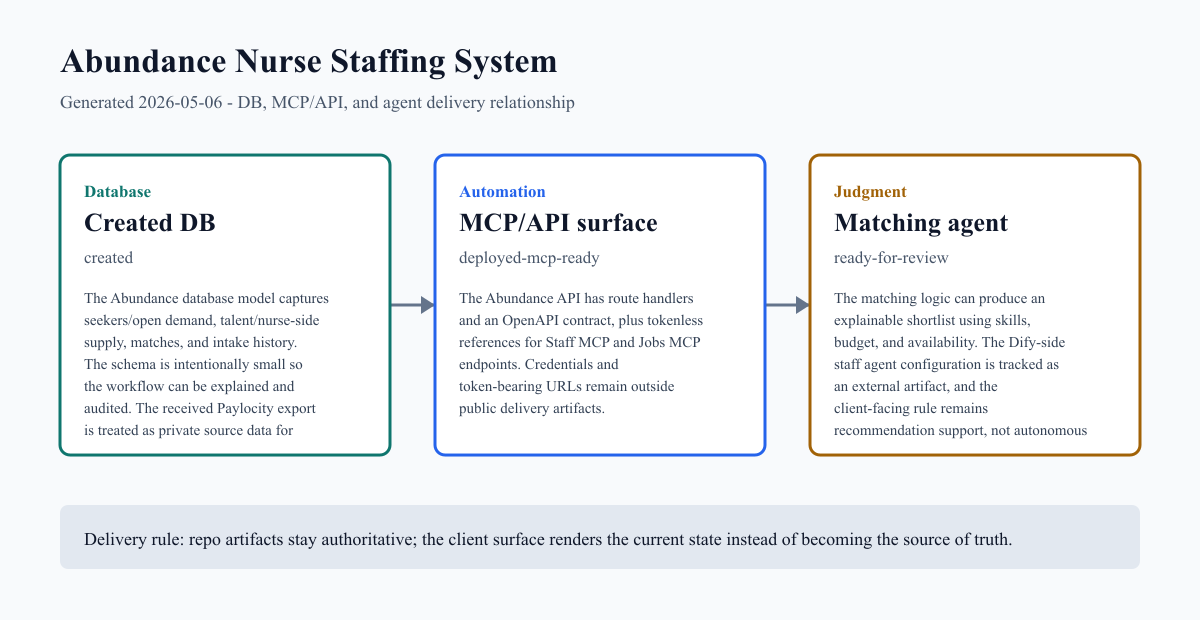
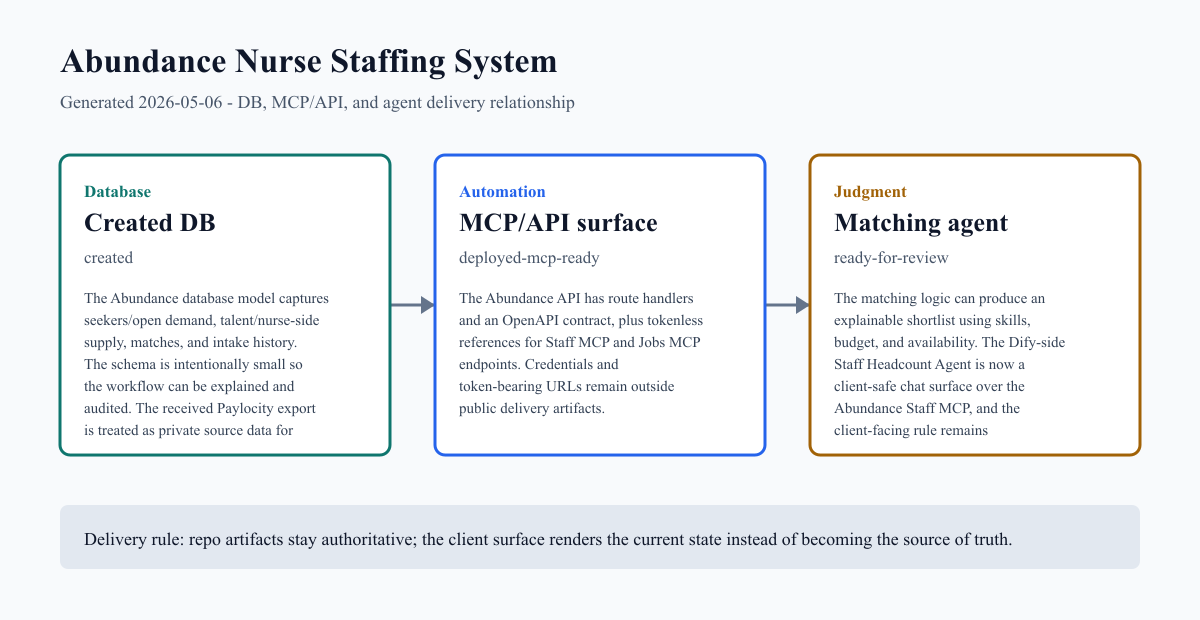
Add NPG Dify agent delivery embed

Changed region(s): [[0.6783, 0.5823, 0.8942, 0.7048]]

diff --git a/packages/agency/src/lib/delivery/abundance.ts b/packages/agency/src/lib/delivery/abundance.ts
@@ -20,13 +20,42 @@ export type DeliveryKnowledgeCard = {
 	followUpQuestions: string[];
 };
 
+export type DeliveryAgentEmbed = {
+	label: string;
+	chatUrl: string;
+	embedUrl: string;
+	meta: string;
+	summary: string;
+	valuePoints: string[];
+	guardrail: string;
+	evaluationNote: string;
+};
+
 export const abundanceDeliverySummary = {
 	client: 'The NP Group / NPG',
 	owner: 'CREATE SOMETHING',
 	phase: 'Build / delivery review',
 	headline: 'Abundance nurse staffing system.',
 	description:
-		'The NP Group now has a live concierge app, a repo-backed database, Staff and Jobs MCP endpoint references, walkthrough artifacts, and a clear agent boundary for recruiter-led review.'
+		'The NP Group now has a live concierge app, a repo-backed database, Staff and Jobs MCP endpoint references, a Staff Headcount Agent, walkthrough artifacts, and a clear agent boundary for recruiter-led review.'
+};
+
+export const abundanceStaffHeadcountAgent: DeliveryAgentEmbed = {
+	label: 'Abundance Staff Headcount Agent',
+	chatUrl: 'https://udify.app/chat/N0MmKYaAQAzgmZhy',
+	embedUrl: 'https://udify.app/chatbot/N0MmKYaAQAzgmZhy',
+	meta: 'Latest agent + MCP delivery',
+	summary:
+		'The Staff Headcount Agent is the newest reviewable surface for the Abundance staff/operator workstream. It uses the Abundance Staff MCP as its source of truth for Paylocity active-headcount summaries, staff profile lookup, and enrichment task tracking.',
+	valuePoints: [
+		'Lets NPG inspect active-headcount context through chat instead of reading raw CSV rows.',
+		'Connects the visible agent experience to the Staff MCP boundary rather than a loose prompt.',
+		'Keeps recruiter/operator judgment in the loop for enrichment, access, and staffing decisions.'
+	],
+	guardrail:
+		'The embedded chat is client-safe. The Dify API key, MCP credentials, employee-level exports, and token-bearing URLs stay in secret storage and are not published here.',
+	evaluationNote:
+		'Braintrust/eval evidence is useful as a value translator once attached to run artifacts: tool use, refusal behavior, latency, and MCP boundary checks can be summarized without exposing raw traces or secrets.'
 };
 
 export const abundanceArtifactLinks: DeliveryArtifact[] = [
@@ -46,6 +75,12 @@ export const abundanceArtifactLinks: DeliveryArtifact[] = [
 		label: 'Pilot overview',
 		href: 'https://share.descript.com/view/0wxPcYQzl8G',
 		meta: 'Concierge pilot walkthrough',
+		visibility: 'client-safe'
+	},
+	{
+		label: 'Staff Headcount Agent',
+		href: abundanceStaffHeadcountAgent.chatUrl,
+		meta: 'Dify chat over Staff MCP',
 		visibility: 'client-safe'
 	},
 	{
@@ -69,20 +104,20 @@ export const abundanceOperatingLayers: DeliveryLayer[] = [
 		title: 'Staff and Jobs MCP',
 		status: 'Deployed endpoints',
 		body:
-			'Staff and jobs MCP endpoints are tracked as tokenless delivery artifacts. Credentials stay in secret storage and are not published in the delivery surface.'
+			'Staff and jobs MCP endpoints are tracked as tokenless delivery artifacts. The Staff Headcount Agent now gives NPG a chat surface over the Staff MCP while credentials stay in secret storage.'
 	},
 	{
 		tier: 'Judgment',
 		title: 'Agent Boundary',
 		status: 'Ready for review',
 		body:
-			'The agent supports intake, shortlist, missing-information flags, and recruiter review. It does not autonomously make staffing decisions.'
+			'The agent supports headcount inspection, intake, shortlist, missing-information flags, and recruiter review. It does not autonomously make staffing decisions.'
 	}
 ];
 
 export const abundancePrivateArtifacts = [
 	'Paylocity active-headcount CSV received for private staff/operator context.',
-	'Dify Abundance staff-agent configuration is tracked as an external operational artifact.',
+	'Dify Abundance Staff Headcount Agent is published as a client-safe chat surface; API credentials remain private.',
 	'MCP credentials should be verified from Infisical before live agent smoke tests.',
 	'Any token shared outside secret storage should be rotated before production reliance.'
 ];
@@ -90,7 +125,7 @@ export const abundancePrivateArtifacts = [
 export const abundanceNextReview = [
 	'Confirm how Paylocity fields map into staff/operator records.',
 	'Verify Staff MCP and Jobs MCP credentials from Infisical.',
-	'Walk through the live app, generated delivery package, and MCP boundaries with NPG.',
+	'Walk through the live app, Staff Headcount Agent, generated delivery package, and MCP boundaries with NPG.',
 	'Decide which operator roster receives MCP/database access.'
 ];
 
@@ -98,7 +133,8 @@ export const abundanceSuggestedPrompts = [
 	'Explain what changed in plain English.',
 	'What decisions do you need from us?',
 	'What is safe to forward to our team?',
-	'How do the DB, MCP, and agent fit together?'
+	'How do the DB, MCP, and agent fit together?',
+	'What can we ask the Staff Headcount Agent?'
 ];
 
 export const abundanceKnowledgeCards: DeliveryKnowledgeCard[] = [
@@ -118,7 +154,7 @@ export const abundanceKnowledgeCards: DeliveryKnowledgeCard[] = [
 		label: 'Review artifacts',
 		keywords: ['link', 'links', 'artifact', 'artifacts', 'walkthrough', 'demo', 'live', 'url', 'review'],
 		answer:
-			'The client-safe review set is the Abundance Concierge live app, the progress walkthrough, the pilot overview, and the generated delivery package. These are safe to use for review because they exclude token-bearing MCP URLs, raw employee rows, private Notion details, and contact data.',
+			'The client-safe review set is the Abundance Concierge live app, the Staff Headcount Agent chat, the progress walkthrough, the pilot overview, and the generated delivery package. These are safe to use for review because they exclude token-bearing MCP URLs, raw employee rows, private Notion details, and contact data.',
 		followUpQuestions: [
 			'Who should be included in the review loop?',
 			'Should the generated delivery page remain public-link accessible, or should future delivery pages require login?'
@@ -149,12 +185,34 @@ export const abundanceKnowledgeCards: DeliveryKnowledgeCard[] = [
 	{
 		id: 'agent',
 		label: 'Agent boundary',
-		keywords: ['agent', 'dify', 'chat', 'recommend', 'recommendation', 'judgment', 'decision', 'autonomous'],
+		keywords: [
+			'agent',
+			'dify',
+			'chat',
+			'headcount',
+			'staff',
+			'recommend',
+			'recommendation',
+			'judgment',
+			'decision',
+			'autonomous'
+		],
 		answer:
-			'The agent should be treated as recommendation support. It can support intake, shortlist candidates, flag missing information, and prepare recruiter review, but it should not autonomously hire, place, reject, or make final staffing decisions. That human review boundary is part of the delivery value.',
+			'The Staff Headcount Agent should be treated as review and recommendation support over the Abundance Staff MCP. It can summarize active-headcount context, look up staff profiles, queue enrichment tasks, support intake, shortlist candidates, flag missing information, and prepare recruiter review, but it should not autonomously hire, place, reject, or make final staffing decisions. That human review boundary is part of the delivery value.',
 		followUpQuestions: [
 			'What actions can the agent draft but not send?',
 			'Which recruiter or operator approves matches before anything reaches a candidate or client?'
+		]
+	},
+	{
+		id: 'evaluation',
+		label: 'Evaluation evidence',
+		keywords: ['eval', 'evals', 'braintrust', 'test', 'tests', 'quality', 'proof', 'trace', 'latency'],
+		answer:
+			'Braintrust/eval evidence can help translate the value of the agent and MCP work into proof: which tools were used, whether private material was refused, whether MCP boundaries held, and whether latency was acceptable. The current delivery page should only claim completed evals once run artifacts or summaries are attached; otherwise it should describe evals as the next proof lane.',
+		followUpQuestions: [
+			'Which eval results are safe to share with NPG?',
+			'Should eval evidence be summarized as a client-facing scorecard or kept as an internal appendix?'
 		]
 	},
 	{

diff --git a/packages/agency/src/routes/delivery/abundance/+page.svelte b/packages/agency/src/routes/delivery/abundance/+page.svelte
@@ -3,6 +3,7 @@
   import {
     abundanceArtifactLinks,
     abundanceDeliverySummary,
+    abundanceStaffHeadcountAgent,
     abundanceNextReview,
     abundanceOperatingLayers,
     abundancePrivateArtifacts,
@@ -137,6 +138,39 @@
           <strong>{artifact.label}</strong>
         </a>
       {/each}
+    </div>
+  </div>
+</section>
+
+<section class="delivery-section">
+  <div class="shell-inner-pad">
+    <div class="agent-delivery product-surface">
+      <div class="agent-delivery__copy">
+        <span class="product-kicker">{abundanceStaffHeadcountAgent.meta}</span>
+        <h2>{abundanceStaffHeadcountAgent.label}</h2>
+        <p>{abundanceStaffHeadcountAgent.summary}</p>
+
+        <div class="agent-delivery__points">
+          {#each abundanceStaffHeadcountAgent.valuePoints as point}
+            <p>{point}</p>
+          {/each}
+        </div>
+
+        <p class="agent-delivery__guardrail">{abundanceStaffHeadcountAgent.guardrail}</p>
+        <p class="agent-delivery__guardrail">{abundanceStaffHeadcountAgent.evaluationNote}</p>
+
+        <a class="agent-delivery__link" href={abundanceStaffHeadcountAgent.chatUrl} target="_blank" rel="noreferrer">
+          Open full chat
+        </a>
+      </div>
+
+      <div class="agent-delivery__embed" aria-label="Embedded Abundance Staff Headcount Agent">
+        <iframe
+          src={abundanceStaffHeadcountAgent.embedUrl}
+          title={abundanceStaffHeadcountAgent.label}
+          allow="microphone"
+        ></iframe>
+      </div>
     </div>
   </div>
 </section>
@@ -411,6 +445,81 @@
     border-top: 4px solid rgba(94, 234, 212, 0.78);
   }
 
+  .agent-delivery {
+    display: grid;
+    grid-template-columns: minmax(0, 0.9fr) minmax(340px, 1.1fr);
+    gap: clamp(18px, 4vw, 34px);
+    align-items: stretch;
+    padding: clamp(20px, 4vw, 34px);
+    border-top: 4px solid rgba(167, 184, 255, 0.76);
+  }
+
+  .agent-delivery__copy {
+    display: grid;
+    gap: 14px;
+    align-content: start;
+  }
+
+  .agent-delivery__copy h2 {
+    margin: 8px 0 2px;
+    font-family: var(--font-display);
+    font-size: clamp(30px, 5vw, 58px);
+    line-height: 1;
+    letter-spacing: 0;
+  }
+
+  .agent-delivery__copy p {
+    margin: 0;
+    color: rgba(246, 247, 251, 0.72);
+    font-size: 1.03rem;
+    line-height: 1.55;
+  }
+
+  .agent-delivery__points {
+    display: grid;
+    gap: 10px;
+    margin: 4px 0;
+  }
+
+  .agent-delivery__points p,
+  .agent-delivery__guardrail {
+    border-top: 1px solid rgba(255, 255, 255, 0.12);
+    padding-top: 10px;
+  }
+
+  .agent-delivery__guardrail {
+    color: rgba(246, 247, 251, 0.6) !important;
+  }
+
+  .agent-delivery__link {
+    width: fit-content;
+    border: 1px solid rgba(94, 234, 212, 0.36);
+    background: rgba(94, 234, 212, 0.12);
+    color: #ffffff;
+    padding: 11px 14px;
+    text-decoration: none;
+  }
+
+  .agent-delivery__link:hover {
+    border-color: rgba(94, 234, 212, 0.72);
+  }
+
+  .agent-delivery__embed {
+    min-height: 700px;
+    overflow: hidden;
+    border: 1px solid rgba(255, 255, 255, 0.14);
+    background: rgba(0, 0, 0, 0.32);
+  }
+
+  .agent-delivery__embed iframe {
+    display: block;
+    width: 100%;
+    height: 100%;
+    min-height: 700px;
+    border: 0;
+    background: #0b0b10;
+  }
+
   .delivery-agent__intro {
     max-width: 820px;
   }
@@ -599,6 +708,7 @@
 
   @media (max-width: 980px) {
     .delivery-hero__inner,
+    .agent-delivery,
     .artifact-grid,
     .layer-grid,
     .evidence-layout,

diff --git a/docs/deliveries/abundance/2026-05-06-project-update.md b/docs/deliveries/abundance/2026-05-06-project-update.md
@@ -5,7 +5,7 @@
 **Audience:** client_summary
 **Generated:** 2026-05-06
 
-Abundance now has a repo-backed database, API/MCP-facing contract surface, and matching-agent boundary that can be delivered as a visible client update instead of a loose status note.
+Abundance now has a repo-backed database, API/MCP-facing contract surface, Staff Headcount Agent, and matching-agent boundary that can be delivered as a visible client update instead of a loose status note.
 
 ## Client Context
 
@@ -13,9 +13,9 @@ This delivery is tied to The NP Group — Abundance AI-native staffing pipeline 
 
 ## Client Summary
 
-The project has moved from concept into a concrete operating system shape: a live concierge app, profile data, matching data, intake history, API routes, MCP endpoints, walkthrough artifacts, and a client-facing explanation layer.
+The project has moved from concept into a concrete operating system shape: a live concierge app, profile data, matching data, intake history, API routes, MCP endpoints, a Staff Headcount Agent, walkthrough artifacts, and a client-facing explanation layer.
 
-The current delivery shows the relationship between the created database, the staff/jobs MCP surfaces, and the agent behavior: what the system stores, what tools can be called, and where human review still belongs.
+The current delivery shows the relationship between the created database, the staff/jobs MCP surfaces, and the agent behavior: what the system stores, what tools can be called, what the Dify chat can safely answer, and where human review still belongs.
 
 A private Paylocity active-headcount export has been received for staff/operator context. Employee-level rows and token-bearing MCP access remain private and are not included in the public delivery.
 
@@ -27,7 +27,7 @@ The client-ready message should avoid internal tool sprawl. It should say: the n
 | --- | --- | --- | --- |
 | Created DB | created | The Abundance database model captures seekers/open demand, talent/nurse-side supply, matches, and intake history. The schema is intentionally small so the workflow can be explained and audited. The received Paylocity export is treated as private source data for the next staff/operator integration pass. | [migrations/0001_abundance_network.sql](../../../packages/agency/migrations/0001_abundance_network.sql)<br>[src/app.d.ts](../../../packages/agency/src/app.d.ts) |
 | MCP/API surface | deployed-mcp-ready | The Abundance API has route handlers and an OpenAPI contract, plus tokenless references for Staff MCP and Jobs MCP endpoints. Credentials and token-bearing URLs remain outside public delivery artifacts. | [static/openapi-abundance.yaml](../../../packages/agency/static/openapi-abundance.yaml)<br>[api/abundance](../../../packages/agency/src/routes/api/abundance) |
-| Matching agent | ready-for-review | The matching logic can produce an explainable shortlist using skills, budget, and availability. The Dify-side staff agent configuration is tracked as an external artifact, and the client-facing rule remains recommendation support, not autonomous staffing decisions. | [abundance/matching.ts](../../../packages/agency/src/lib/abundance/matching.ts)<br>[match/+server.ts](../../../packages/agency/src/routes/api/abundance/match/+server.ts) |
+| Matching agent | ready-for-review | The matching logic can produce an explainable shortlist using skills, budget, and availability. The Dify-side Staff Headcount Agent is now a client-safe chat surface over the Abundance Staff MCP, and the client-facing rule remains recommendation support, not autonomous staffing decisions. | [abundance/matching.ts](../../../packages/agency/src/lib/abundance/matching.ts)<br>[match/+server.ts](../../../packages/agency/src/routes/api/abundance/match/+server.ts) |
 
 ## Delivery Artifacts
 
@@ -36,6 +36,7 @@ The client-ready message should avoid internal tool sprawl. It should say: the n
 | Abundance Concierge live app | client_summary | cloudflare_pages_app | [Abundance Concierge live app](https://abundance-concierge-chat.pages.dev/) |
 | Nurse Staffing Concierge Progress Walkthrough | client_summary | descript_walkthrough | [Nurse Staffing Concierge Progress Walkthrough](https://share.descript.com/view/RWYv3CqKbEC) |
 | Abundance Concierge Pilot Overview | client_summary | descript_walkthrough | [Abundance Concierge Pilot Overview](https://share.descript.com/view/0wxPcYQzl8G) |
+| Abundance Staff Headcount Agent | client_summary | dify_chat_app | [Abundance Staff Headcount Agent](https://udify.app/chat/N0MmKYaAQAzgmZhy) |
 | Abundance Staff MCP | private_internal | remote_mcp_server | [Abundance Staff MCP](https://abundance-staff-mcp.createsomething.workers.dev/mcp) |
 | Abundance Jobs MCP | private_internal | remote_mcp_server | [Abundance Jobs MCP](https://abundance-jobs-mcp.createsomething.workers.dev/mcp) |
 | Paylocity Active Headcount export | private_internal | private_csv_export | Received private Paylocity export with 198 employee rows and 20 columns. Raw rows, local file path, and employee-level data are intentionally excluded from the public delivery. |
@@ -56,13 +57,13 @@ These image prompts target gpt-image-2 and are stored with the delivery assets.
 
 ## Client-Ready Update
 
-We have the first durable Abundance system shape in place: a live nurse-facing concierge app, a database for nurse/candidate-side profile history and matching state, callable workflow routes for intake and match creation, deployed MCP endpoint references, and a matching layer that returns visible reasons rather than black-box decisions.
+We have the first durable Abundance system shape in place: a live nurse-facing concierge app, a database for nurse/candidate-side profile history and matching state, callable workflow routes for intake and match creation, deployed MCP endpoint references, a Staff Headcount Agent, and a matching layer that returns visible reasons rather than black-box decisions.
 
-The current implementation supports the core operating path: capture profile context, preserve intake history, create or update demand/supply records, generate suggested matches, and keep the recruiter/human review boundary visible.
+The current implementation supports the core operating path: capture profile context, preserve intake history, create or update demand/supply records, inspect staff/headcount context through chat, generate suggested matches, and keep the recruiter/human review boundary visible.
 
 We also received the Paylocity active-headcount export as private source data for the next staff/operator integration pass. That data is acknowledged here as an artifact, but employee-level records are not included in the public delivery.
 
-The next useful review is a walkthrough of the live app, DB, callable actions, staff/jobs MCP boundaries, and agent recommendation boundary using the generated delivery page and walkthrough artifacts.
+The next useful review is a walkthrough of the live app, Staff Headcount Agent, DB, callable actions, staff/jobs MCP boundaries, and agent recommendation boundary using the generated delivery page and walkthrough artifacts.
 
 ## Repo Evidence
 
@@ -73,15 +74,16 @@ The next useful review is a walkthrough of the live app, DB, callable actions, s
 | Created DB | [packages/agency/docs/ABUNDANCE_NETWORK_SYSTEM_DOCUMENTATION.md](../../../packages/agency/docs/ABUNDANCE_NETWORK_SYSTEM_DOCUMENTATION.md) | file | 552 lines |
 | MCP/API surface | [packages/agency/static/openapi-abundance.yaml](../../../packages/agency/static/openapi-abundance.yaml) | file | 839 lines |
 | MCP/API surface | [packages/agency/src/routes/api/abundance](../../../packages/agency/src/routes/api/abundance) | directory | 8 files |
-| MCP/API surface | [config/mcp-hub/registry.json](../../../config/mcp-hub/registry.json) | file | 16066 lines |
-| MCP/API surface | [config/mcp-hub/fleet.json](../../../config/mcp-hub/fleet.json) | file | 429 lines |
+| MCP/API surface | [config/mcp-hub/registry.json](../../../config/mcp-hub/registry.json) | file | 12031 lines |
+| MCP/API surface | [config/mcp-hub/fleet.json](../../../config/mcp-hub/fleet.json) | file | 430 lines |
 | Matching agent | [packages/agency/src/lib/abundance/matching.ts](../../../packages/agency/src/lib/abundance/matching.ts) | file | 176 lines |
 | Matching agent | [packages/agency/src/routes/api/abundance/match/+server.ts](../../../packages/agency/src/routes/api/abundance/match/+server.ts) | file | 212 lines |
 | Matching agent | [packages/agency/src/routes/api/abundance/whatsapp/+server.ts](../../../packages/agency/src/routes/api/abundance/whatsapp/+server.ts) | file | 286 lines |
-| Matching agent | [packages/ltd/src/routes/presentations/abundance-system/+page.svelte](../../../packages/ltd/src/routes/presentations/abundance-system/+page.svelte) | file | 306 lines |
+| Matching agent | [packages/ltd/src/routes/presentations/abundance-system/+page.svelte](../../../packages/ltd/src/routes/presentations/abundance-system/+page.svelte) | file | 303 lines |
 
 ## Recent Related Commits
 
+- 92c5bcb00 2026-04-30 Move LTD presentation components into Canon
 - 4d42f2f44 2026-03-12 Update nurse acquisition media plan
 - ce6127736 2026-03-12 Locate meeting 2026-03-10 2pm CT
 - 59d6191fb 2026-03-12 feat: add abundance staffing budget benchmarks
@@ -96,6 +98,7 @@ The next useful review is a walkthrough of the live app, DB, callable actions, s
 - Verify the Staff MCP and Jobs MCP credentials from Infisical before any live agent smoke test, and rotate any token that was shared in chat if it remains active.
 - Confirm how Paylocity active-headcount fields should map into staff/operator records before importing or enriching production data.
 - Capture real screenshots from the live Abundance app and walkthrough once the client-visible route is promoted.
+- Attach Braintrust/eval summaries for the Staff Headcount Agent and MCP surfaces once run artifacts are safe to share.
 
 ## Regenerate
 
